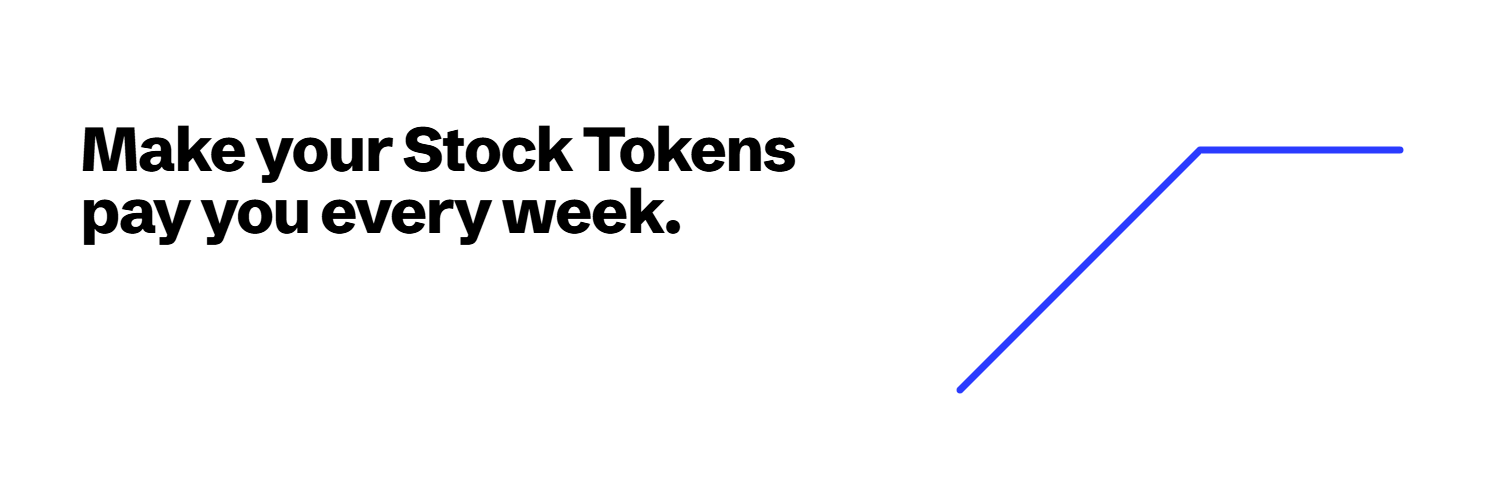
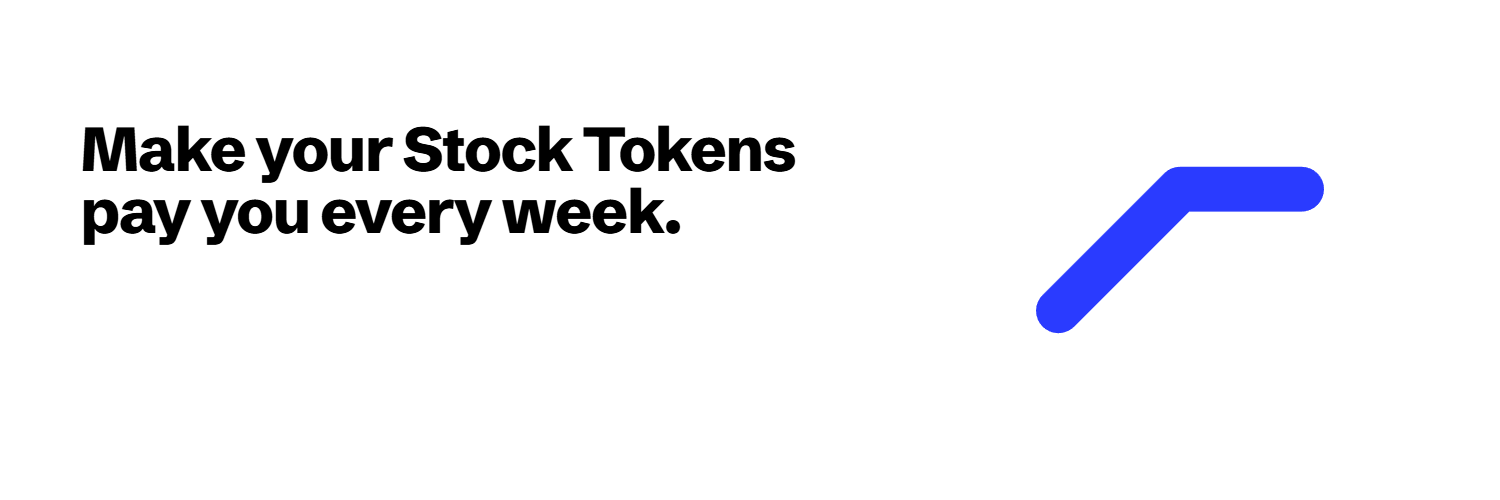
chore: brand mark
Replace the blue square with the covered-call payoff glyph: one ultramarine
stroke, 45° rise then flat at the cap. Used in the landing and app headers
(Mark.tsx), favicon.svg/png, and regenerated X profile + banner in brand/.

Changed region(s): [[0.644, 0.27, 0.9507, 0.78]]

diff --git a/landing/index.html b/landing/index.html
@@ -2,6 +2,7 @@
 <html lang="en">
 <head>
 <meta charset="utf-8">
+  <link rel="icon" type="image/svg+xml" href="favicon.svg">
 <meta name="viewport" content="width=device-width, initial-scale=1">
 <title>Overwrite — Make your Stock Tokens pay you every week</title>
 <meta name="description" content="Overwrite is the yield layer for tokenized stocks on Robinhood Chain. Market makers bid for your upside every week and pay premium in USDG up front. Two auctions a week, including the weekend.">
@@ -37,7 +38,7 @@
   /* nav */
   .nav{display:flex;align-items:center;justify-content:space-between;padding:20px 0;border-bottom:1px solid var(--ink)}
   .mark{text-decoration:none;font-weight:800;font-size:21px;letter-spacing:-0.03em;display:flex;align-items:center;gap:10px}
-  .mark i{display:inline-block;width:14px;height:14px;background:var(--blue);border-radius:2px}
+  .mark svg{display:block;width:18px;height:18px;flex:none}
   .nav ul{list-style:none;margin:0;padding:0;display:flex;gap:26px;align-items:center}
   .nav li a{text-decoration:none;font-size:15px;color:var(--gray)}
   .nav li a:hover{color:var(--ink)}
@@ -200,7 +201,7 @@
 
 <header class="wrap">
   <nav class="nav" aria-label="Main">
-    <a class="mark" href="#"><i aria-hidden="true"></i>Overwrite</a>
+    <a class="mark" href="#"><svg viewBox="0 0 100 100" aria-hidden="true" focusable="false"><path d="M12 69 L50 31 L88 31" fill="none" stroke="#2A3BFF" stroke-width="14" stroke-linecap="round" stroke-linejoin="round"/></svg>Overwrite</a>
     <ul>
       <li><a href="#tradeoff">How it works</a></li>
       <li><a href="#write">The loop</a></li>

diff --git a/brand/src/banner.html b/brand/src/banner.html
@@ -5,13 +5,9 @@
    vertical margins keep the composition clear of X's responsive crop. */
 body{width:1500px;height:500px;position:relative}
 h1{position:absolute;left:80px;top:118px;width:800px;font-size:62px}
-.payoff{position:absolute;left:940px;top:90px;width:480px;height:320px;display:block}
-.payoff path{stroke:var(--blue);stroke-width:7;fill:none;stroke-linecap:round;stroke-linejoin:round}
+.mark{--size:320px;position:absolute;left:1020px;top:90px}
 </style></head>
 <body>
 <h1>Make your Stock Tokens pay you every week.</h1>
-<!-- Covered-call payoff: rises at 45° (equal dx/dy) then flat past the cap. -->
-<svg class="payoff" viewBox="0 0 480 320" aria-label="Covered-call payoff line">
-  <path d="M 20 300 L 260 60 L 460 60"/>
-</svg>
+<svg class="mark" viewBox="0 0 100 100" aria-label="Overwrite mark"><path d="M12 69 L50 31 L88 31" fill="none" stroke="#2A3BFF" stroke-width="14" stroke-linecap="round" stroke-linejoin="round"/></svg>
 </body></html>

diff --git a/brand/src/brand.css b/brand/src/brand.css
@@ -5,5 +5,7 @@
 html,body{margin:0;padding:0}
 body{background:var(--bg);color:var(--ink);font-family:var(--font-sans);-webkit-font-smoothing:antialiased;overflow:hidden}
 h1{margin:0;font-weight:800;letter-spacing:-0.03em;line-height:1}
-/* .mark i on the landing is a 14px square with 2px radius; the ratio is kept when scaled. */
-.mark{display:block;background:var(--blue);border-radius:calc(var(--size) * 2 / 14)}
+/* The mark: covered-call payoff glyph. 100-unit box, stroke 14 (14% of the box), round caps,
+   45° rise then flat at the cap. Same path as favicon.svg and components/site/Mark.tsx. */
+.mark{display:block;width:var(--size);height:var(--size)}
+.mark path{fill:none;stroke:var(--blue);stroke-width:14;stroke-linecap:round;stroke-linejoin:round}

diff --git a/app/src/app/(marketing)/landing.css b/app/src/app/(marketing)/landing.css
@@ -9,7 +9,7 @@
 .landing :focus-visible{outline:3px solid var(--blue);outline-offset:3px}
 .landing .nav{display:flex;align-items:center;justify-content:space-between;padding:20px 0;border-bottom:1px solid var(--ink)}
 .landing .mark{text-decoration:none;font-weight:800;font-size:21px;letter-spacing:-0.03em;display:flex;align-items:center;gap:10px}
-.landing .mark i{display:inline-block;width:14px;height:14px;background:var(--blue);border-radius:2px}
+.landing .mark svg{display:block;width:18px;height:18px;flex:none}
 .landing .nav ul{list-style:none;margin:0;padding:0;display:flex;gap:26px;align-items:center}
 .landing .nav li a{text-decoration:none;font-size:15px;color:var(--gray)}
 .landing .nav li a:hover{color:var(--ink)}

diff --git a/app/src/components/site/Header.tsx b/app/src/components/site/Header.tsx
@@ -1,4 +1,5 @@
 import Link from "next/link";
+import { Mark } from "./Mark";
 import { WalletButton } from "@/components/wallet/WalletButton";
 import { NavLinks } from "./NavLinks";
 
@@ -15,7 +16,7 @@ export function Header() {
           href="/vaults"
           className="flex items-center gap-[10px] no-underline font-extrabold text-[21px] tracking-[-0.03em]"
         >
-          <i aria-hidden className="inline-block w-[14px] h-[14px] bg-blue rounded-[2px]" />
+          <Mark className="w-[18px] h-[18px] shrink-0" />
           Overwrite
         </Link>
         <div className="flex items-center gap-4 sm:gap-7 order-3 sm:order-2 w-full sm:w-auto pt-3 sm:pt-0 border-t sm:border-t-0 border-rule">

diff --git a/brand/src/favicon.html b/brand/src/favicon.html
@@ -1,8 +1,4 @@
-<!doctype html><html lang="en"><head><meta charset="utf-8"><title>profile</title>
+<!doctype html><html lang="en"><head><meta charset="utf-8"><title>favicon</title>
 <link rel="stylesheet" href="brand.css">
-<style>
-body{width:800px;height:800px;display:grid;place-items:center}
-body.dark{background:var(--ink)}
-.mark{--size:480px}
-</style></head>
+<style>body{width:512px;height:512px;background:transparent}.mark{--size:512px}</style></head>
 <body><svg class="mark" viewBox="0 0 100 100" aria-label="Overwrite mark"><path d="M12 69 L50 31 L88 31" fill="none" stroke="#2A3BFF" stroke-width="14" stroke-linecap="round" stroke-linejoin="round"/></svg></body></html>

diff --git a/app/src/components/site/Mark.tsx b/app/src/components/site/Mark.tsx
@@ -1,0 +1,18 @@
+/**
+ * The brand mark: a covered-call payoff glyph. One ultramarine stroke (14% of the box, round
+ * caps) rising at 45° then flat at the cap. Same path as public/favicon.svg and brand/.
+ */
+export function Mark({ className }: { className?: string }) {
+  return (
+    <svg className={className} viewBox="0 0 100 100" aria-hidden="true" focusable="false">
+      <path
+        d="M12 69 L50 31 L88 31"
+        fill="none"
+        stroke="#2A3BFF"
+        strokeWidth="14"
+        strokeLinecap="round"
+        strokeLinejoin="round"
+      />
+    </svg>
+  );
+}

diff --git a/app/src/app/layout.tsx b/app/src/app/layout.tsx
@@ -15,6 +15,7 @@ export const metadata: Metadata = {
     default: "Overwrite — Make your Stock Tokens pay you every week",
     template: "%s — Overwrite",
   },
+  icons: { icon: [{ url: "/favicon.svg", type: "image/svg+xml" }, { url: "/favicon.png", type: "image/png", sizes: "512x512" }] },
   description:
     "Overwrite is the yield layer for tokenized stocks on Robinhood Chain. Market makers bid for your upside every week and pay premium in USDG up front. Two auctions a week, including the weekend.",
 };

diff --git a/app/src/components/landing/MarketingHeader.tsx b/app/src/components/landing/MarketingHeader.tsx
@@ -1,4 +1,5 @@
 import Link from "next/link";
+import { Mark } from "@/components/site/Mark";
 
 /** The landing nav, verbatim from landing/index.html. Anchors scroll the page; "Open app" leaves it. */
 export function MarketingHeader() {
@@ -6,7 +7,7 @@ export function MarketingHeader() {
     <header className="wrap">
       <nav className="nav" aria-label="Main">
         <Link className="mark" href="/">
-          <i aria-hidden="true" />
+          <Mark />
           Overwrite
         </Link>
         <ul>
